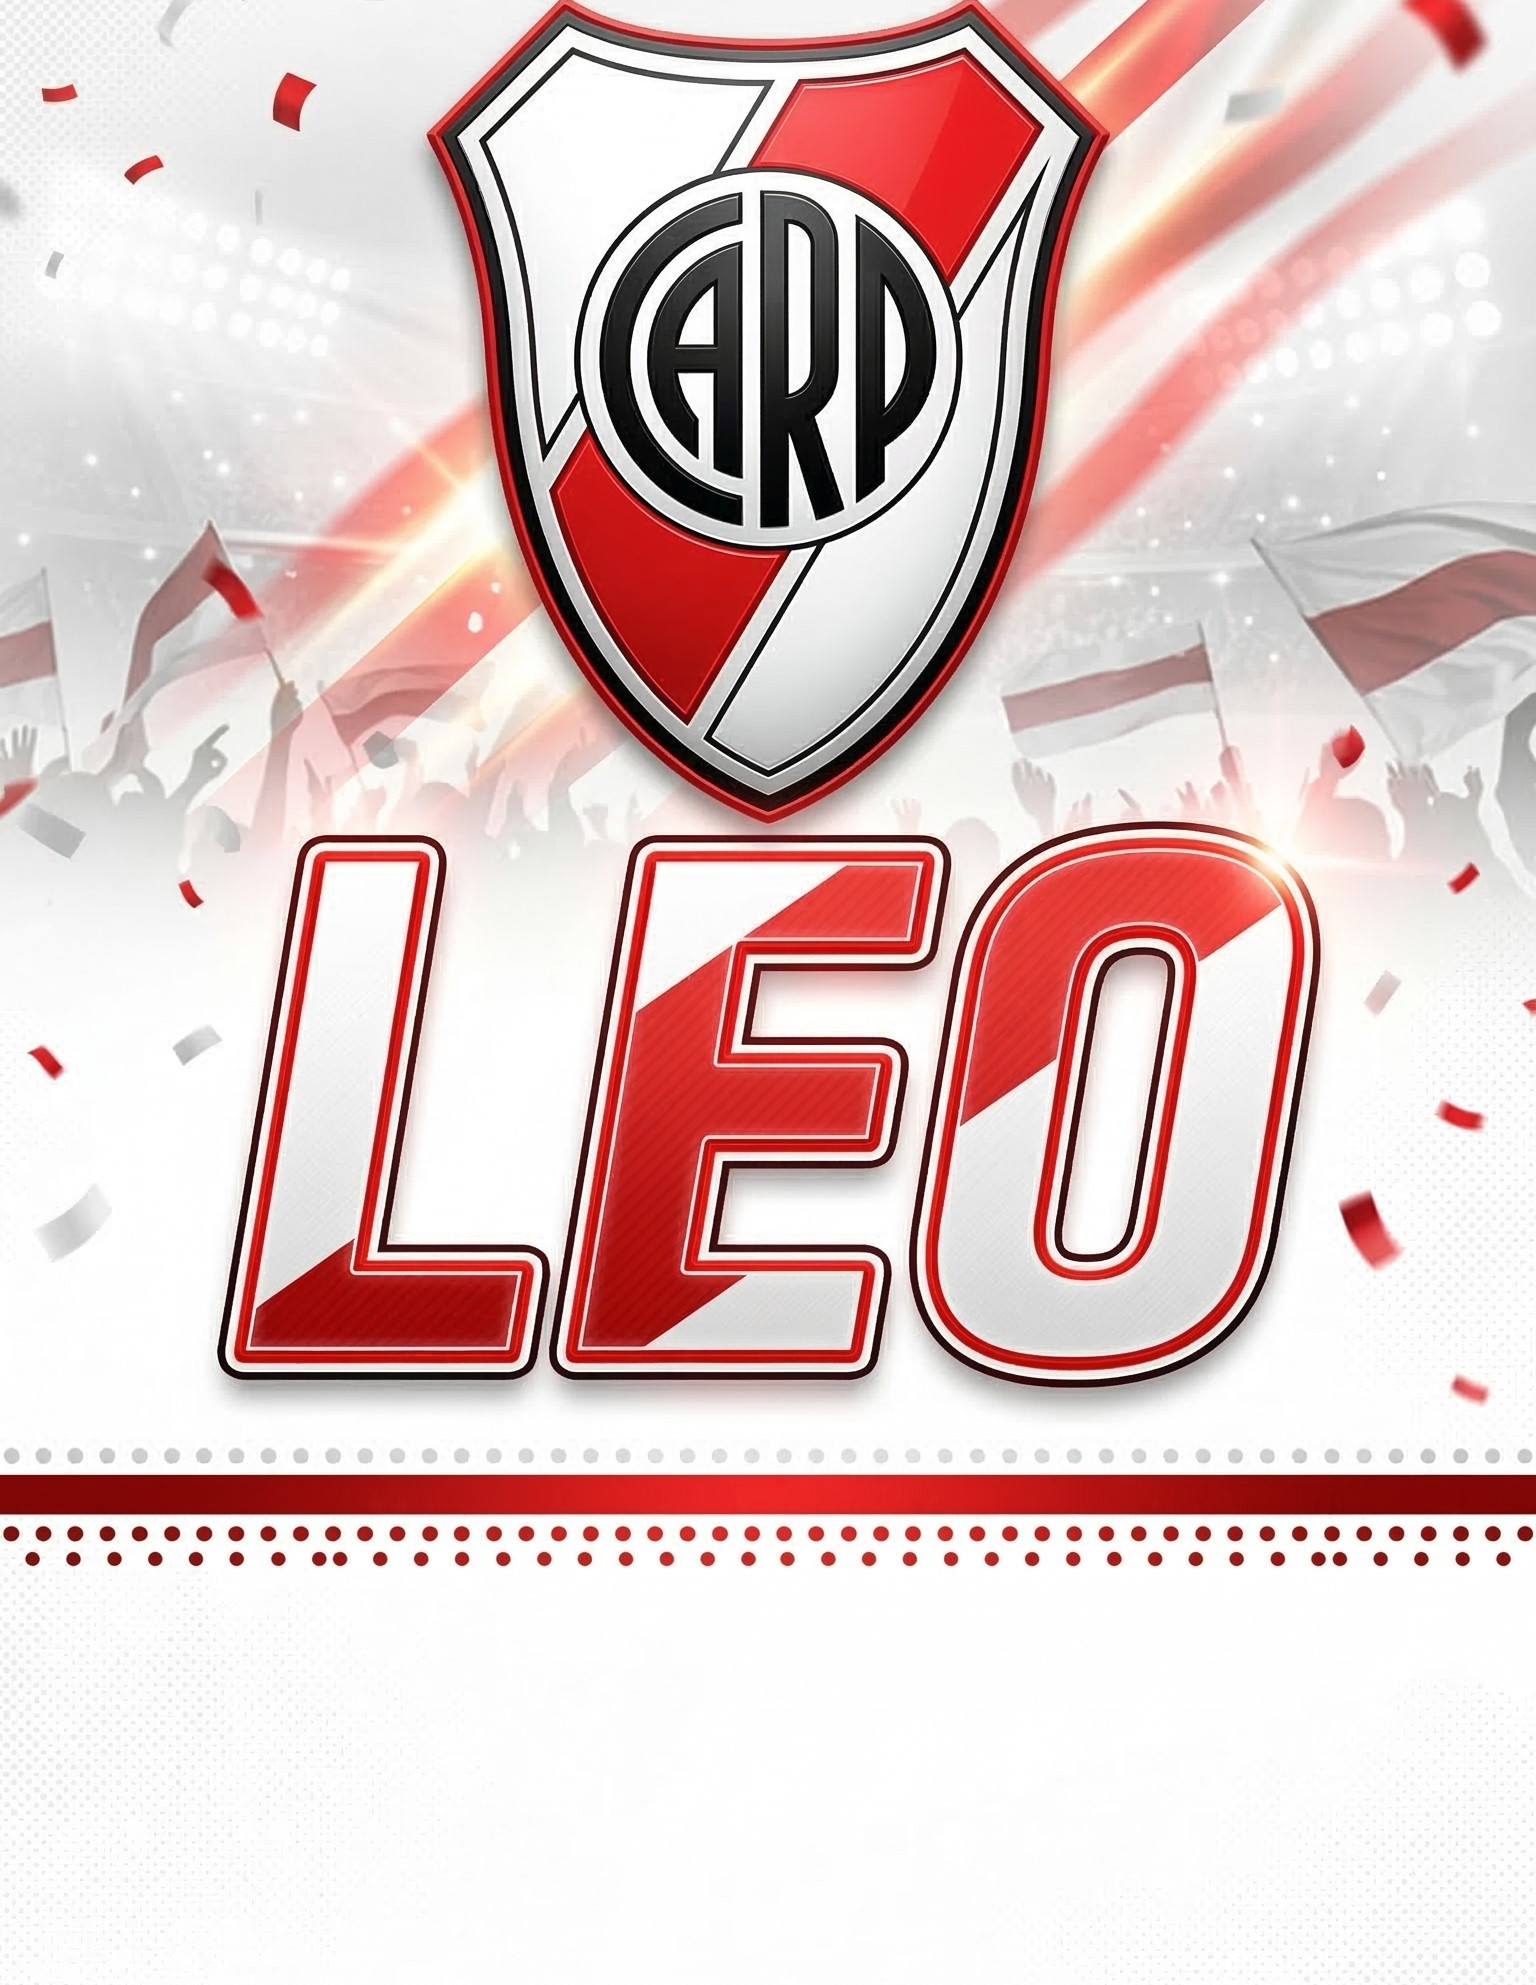
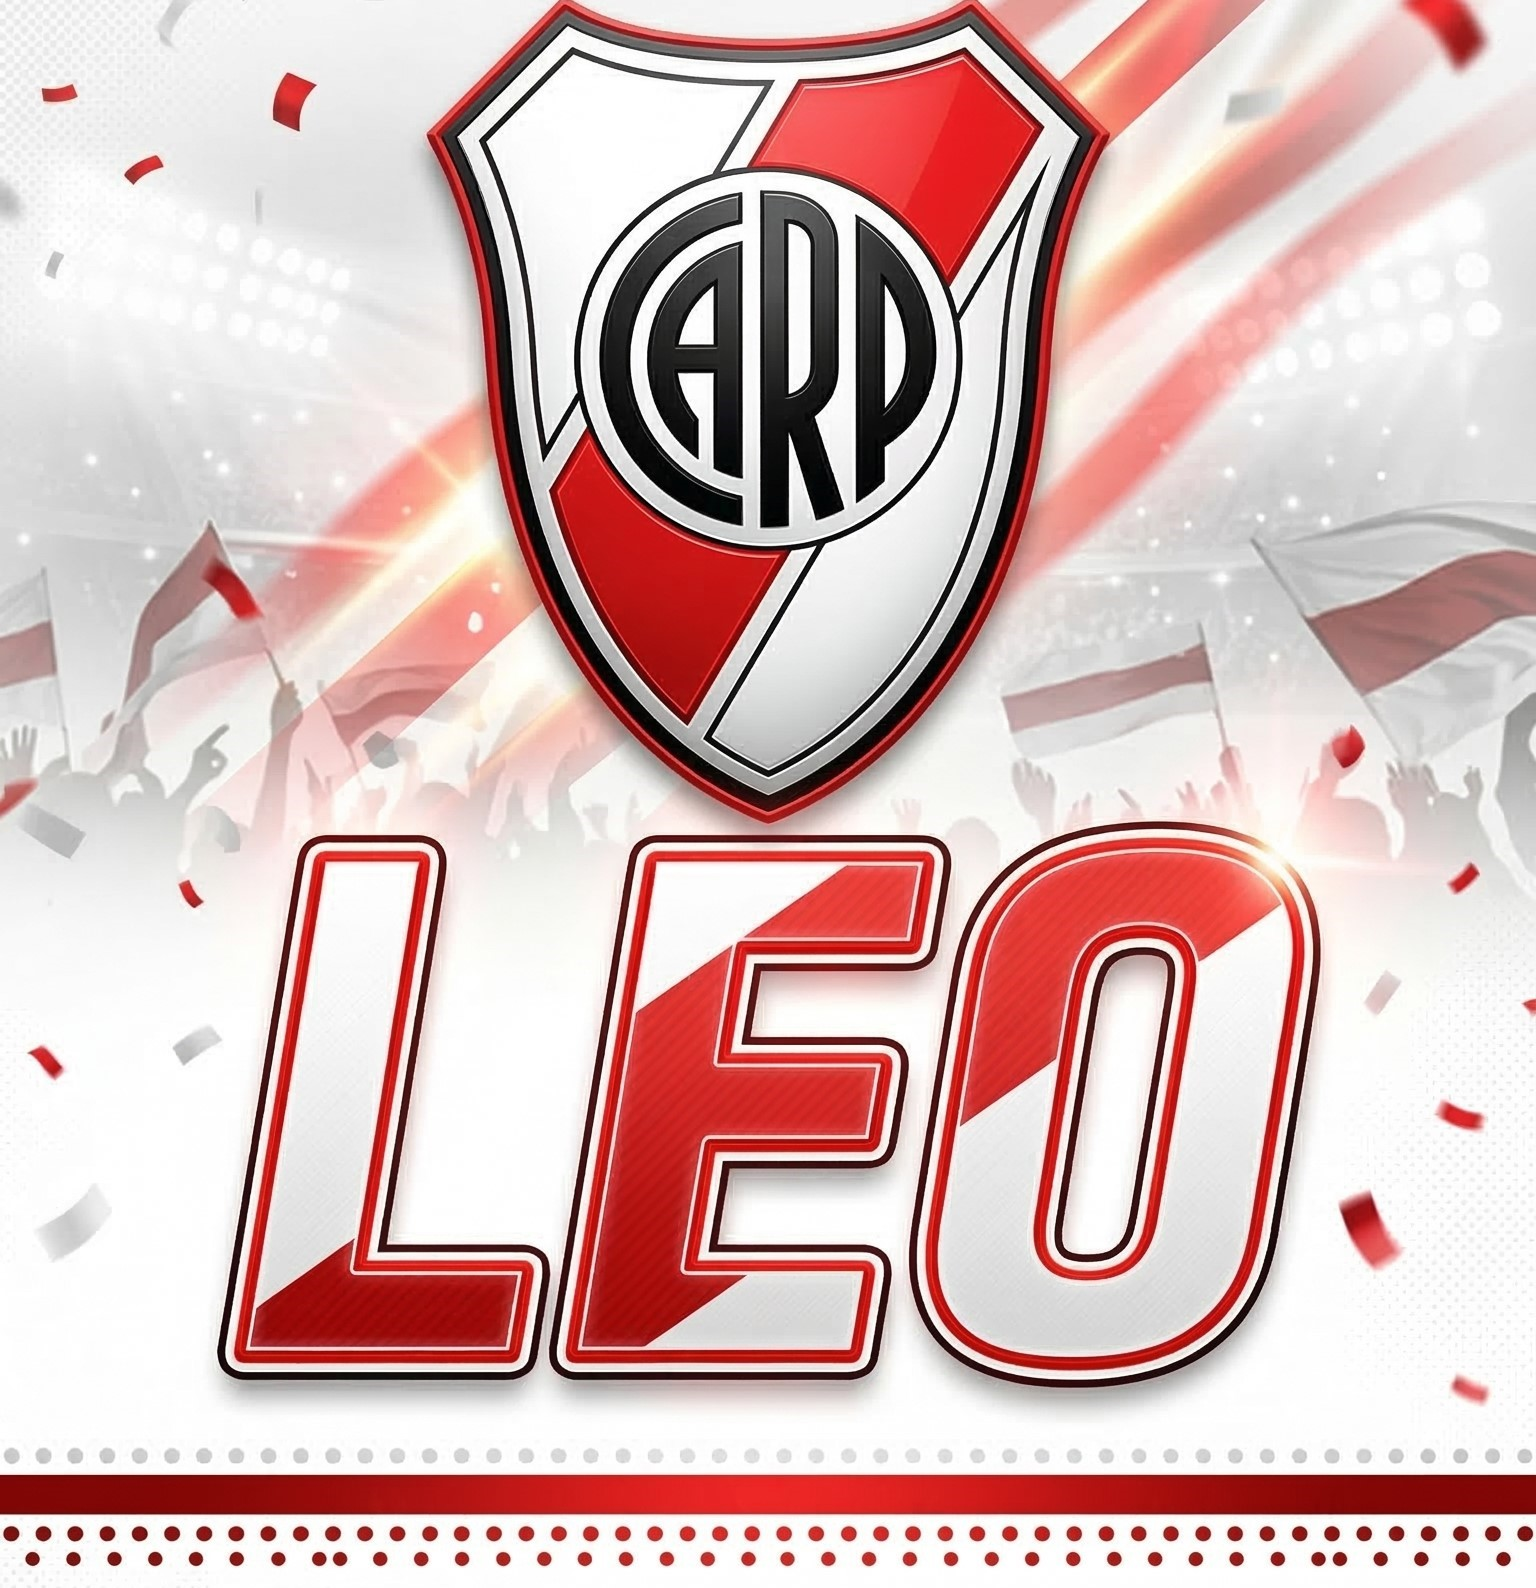
actualizo colores

diff --git a/assets/style.css b/assets/style.css
@@ -77,6 +77,10 @@ object {
 }
 
 @media (max-width: 767px) {
+.bienvenida-nombre{
+  font-size: 80px;
+}
+
   .flores-grupo02-wrapper {
     display: block !important;
     position: absolute;
@@ -113,9 +117,8 @@ object {
   }
 
   .bienvenida-nombre {
-    letter-spacing: 2px;
     font-family: var(--grosor-fuente-bold);
-    font-size: 70px; /* Grande en móvil */
+    font-size: 80px; /* Grande en móvil */
     line-height: 1;
     color: var(--color-2);
     text-transform: uppercase;
@@ -123,7 +126,7 @@ object {
 
   .bienvenida-texto {
     font-family: var(--fuente-2);
-    font-size: 20px;
+    font-size: 10px;
     color: var(--color-3);
     margin-bottom: 20px;
     line-height: 1.5;
@@ -148,6 +151,7 @@ object {
 
   /* Asegurar que la ola esté debajo */
   .ola-separador {
+    display: none !important;
     position: absolute;
     z-index: 100;
     bottom: 0;
@@ -155,6 +159,9 @@ object {
 }
 
 @media (max-width: 768px) {
+  .bienvenida-nombre{
+  font-size: 80px;
+}
 
   body,
   html {
@@ -555,7 +562,12 @@ section.portada {
 section.portada .portada-picture {
   width: 55%;
   position: relative;
+  overflow: visible;
+}
 
+section.portada .portada-picture::before,
+section.portada .portada-picture::after {
+  display: none !important;
 }
 
 .portada-con-espacio {
@@ -3463,7 +3475,9 @@ body.bienvenida-activa {
 
 .bienvenida-nombre {
     font-family: var(--fuente-1);
-    font-size: 80px; /* Grande en móvil */
+    font-size: 140px; /* Grande en móvil */
+        letter-spacing: 15px;
+
     line-height: 1;
     color: var(--color-1);
     text-transform: uppercase;
@@ -3471,7 +3485,7 @@ body.bienvenida-activa {
     margin-top: 10px;
     position: relative;
     display: inline-block;
-    padding: 0 10px;
+  
 }
 /* Efecto de "apertura" para el nombre, similar a tu portada */
 .bienvenida-nombre::before {
@@ -3495,7 +3509,7 @@ body.bienvenida-activa {
 /* Texto descriptivo */
 .bienvenida-texto {
     font-family: var(--fuente-2);
-    font-size: 55px;
+    font-size: 20px;
     color: var(--color-1);
     margin-bottom: 20px;
     line-height: 1.5;
@@ -3521,13 +3535,13 @@ body.bienvenida-activa {
 /* Ajuste para pantallas muy pequeñas (ej: iPhone SE) */
 @media (max-width: 380px) {
     .bienvenida-nombre {
-        font-size: 55px;
+        font-size: 40px;
     }
     .bienvenida-bienvenidos {
         font-size: 18px;
         letter-spacing: 3px;
     }
     .bienvenida-texto {
-        font-size: 16px;
+        font-size: 10px;
     }
 }

diff --git a/assets/responsive.css b/assets/responsive.css
@@ -61,13 +61,14 @@
 
   section.portada .portada-picture {
     width: 100%;
-    height: 530px;
+    height: auto !important;
     position: relative;
   }
 
+  /* Ocultar cualquier superposición que pueda recortar la imagen */
+  section.portada .portada-picture::before,
   section.portada .portada-picture::after {
-    display: none;
-    /* Ocultar el fondo de ola viejo */
+    display: none !important;
   }
 
   /* Mostrar las flores A/B/C sobre la ola en móvil; solo ocultar adorno-4 si existe */
@@ -85,9 +86,9 @@
   section.portada .portada-container {
     width: 100%;
     padding-bottom: 0;
-    margin-top: -200px;
+    margin-top: 0 !important;
     position: relative;
-    z-index: 90;
+    z-index: 1;
   }
 
   section.cuenta-regresiva .box-aros {
